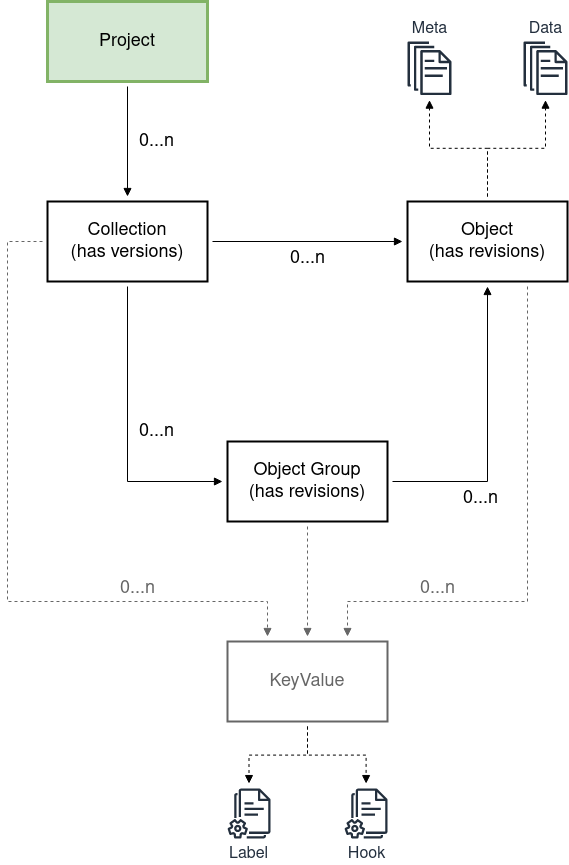
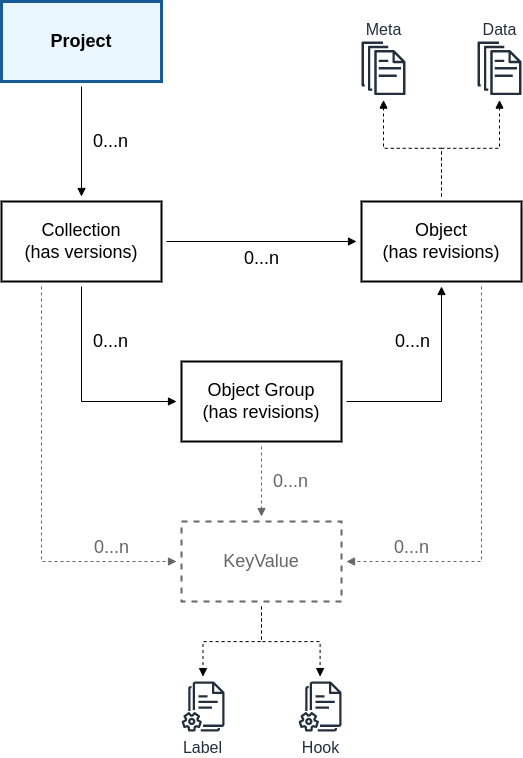
Update internal data structure information

diff --git a/get_started/internal_data_structure/internal_data_structure.md b/get_started/internal_data_structure/internal_data_structure.md
@@ -5,8 +5,8 @@ A project also acts as an umbrella container for one or multiple collections and
 
 ## Collection
 
-Basic resource to organize stored data.
-Collections can be described with more detailed metadata by registering one or multiple Object/s as _"specification"_ of the Collection.
+Basic resource to organize stored data i.e. Objects.
+Collections can be described with more detailed metadata by registering one or multiple Object/s marked as _"specification"_ of the Collection.
 
 Collections can also be versioned on-demand with a version number following semantic versioning principles.
 On creation of a collection version the collection a shallow cloned and immutable copy of the collection is created.
@@ -14,7 +14,7 @@ The version number is defined manually by the user who pinpoints the Collection.
 
 ## Object
 
-Resource which stores the data in the storage system.
+Resource which fundamentally stores the data in the backend storage system.
 An Object can only be owned by one collection at a time but references can be created for multiple collections.
 Depending on the context an Object can represent data or metadata.
 Additionally, an Object has revisions
@@ -26,13 +26,13 @@ These are used to indicate the status of an Object during its lifecycle.
 
 <dl>
   <dt>INITIALIZING</dt>
-  <dd>After Object creation but before Object finishing.</dd>
+  <dd>After Object creation/initialization but before Object finishing.</dd>
 
   <dt>AVAILABLE</dt>
   <dd>After Object finishing if everything succeeded.</dd>
 
   <dt>UNAVAILABLE</dt>
-  <dd>E.g. while an Object is being updated.</dd>
+  <dd>E.g. while an Object is being updated or generally in the staging area.</dd>
 
   <dt>ERROR</dt>
   <dd>If something went wrong e.g. data proxy endpoints are down.</dd>
@@ -50,7 +50,7 @@ Simple resource which represents a key-value pair which is directly associated w
   <dd>Used to describe short properties of the resource with which it is associated.</dd>
 
   <dt>Hooks</dt>
-  <dd>Used to reference (external) services which automatically validate/process/analyze/... the data.</dd>
+  <dd>Used to reference (external) services which automatically process/validate/... the data upon registration.</dd>
 </dl>
 
 ## ObjectGroup [optional]
